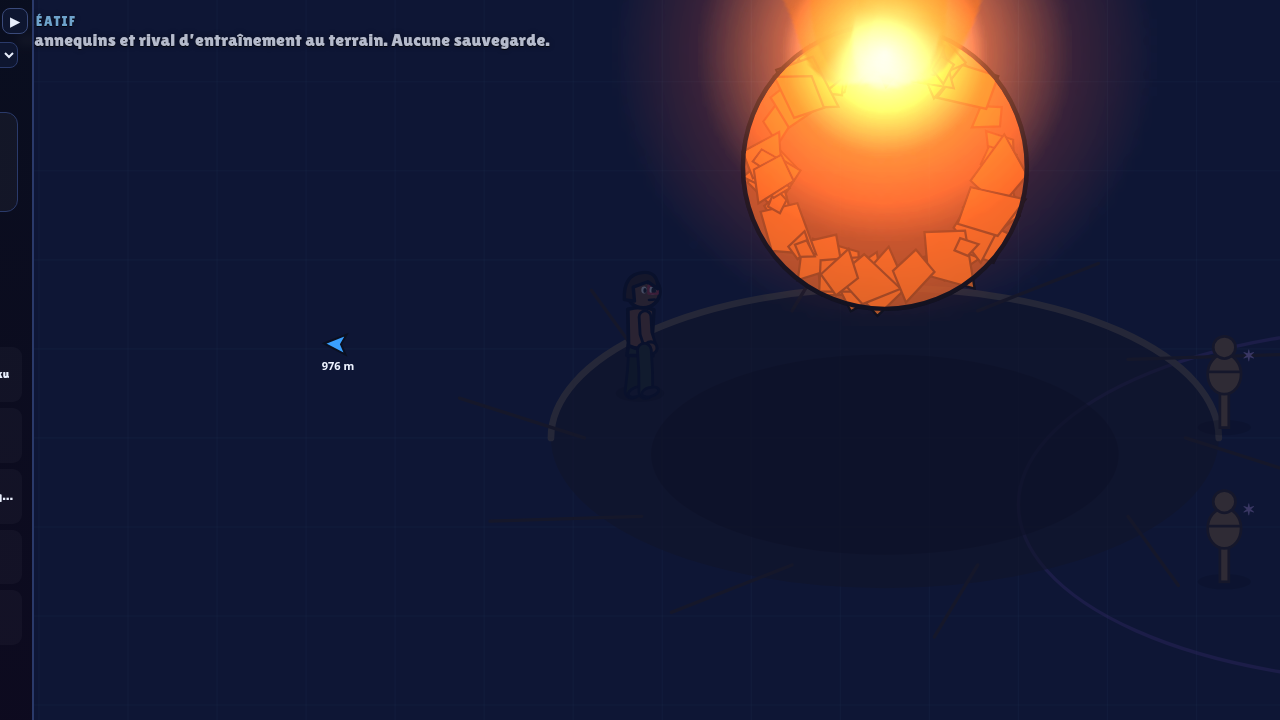
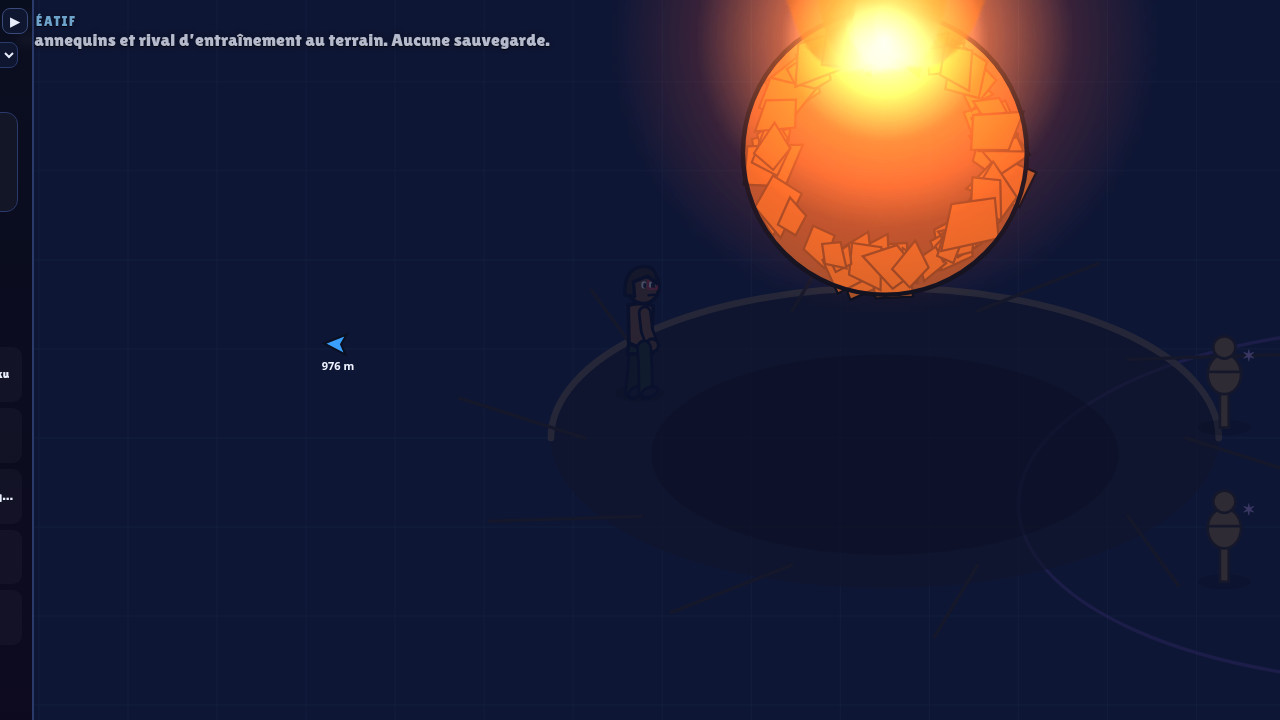
v0.9.6: data-driven core animations (M1 combo, dash, kawarimi, reactions, guard, run)

Changed region(s): [[0.5625, 0.0611, 0.8125, 0.4278], [0.6562, 0.0, 0.75, 0.0611], [0.5, 0.3972, 0.5312, 0.4278]]

diff --git a/index.html b/index.html
@@ -104,7 +104,7 @@ button.b.p{background:var(--gold);color:var(--ink)}button.b.p2{background:var(--
 <script>
 'use strict';
 /* ============ Noyau : réglages, sauvegarde, entrées, audio ============ */
-const VERSION = '0.9.5';
+const VERSION = '0.9.6';
 const $ = (s) => document.querySelector(s);
 const TAU = Math.PI * 2, clamp = (v, a, b) => (v < a ? a : v > b ? b : v), lerp = (a, b, t) => a + (b - a) * t;
 const rnd = (a, b) => a + Math.random() * (b - a), pick = (a) => a[(Math.random() * a.length) | 0];
@@ -3495,6 +3495,60 @@ addEventListener('touchstart',()=>document.body.classList.add('touch07'),{passiv
     g.restore(); g.globalAlpha = 1; g.globalCompositeOperation = 'source-over'; };
   // la caméra et l'impact du coup : petit hitstop + secousse adoucie
   const sw0 = MODE08.swing && MODE08.swing.bind(MODE08); if (sw0) MODE08.swing = function (u) { sw0(u); try { Cam.shake((Save.set && Save.set.rf === false) ? 0.3 : 0.15); } catch (e) {} };
+})();
+
+// v0.9.6 — Animations de base, décrites en données (ANIM10) pour les régler facilement : combo M1, dash, Kawarimi (bûche), réactions aux coups, garde, course de Naruto.
+// Ne touche ni aux dégâts ni aux timings de gameplay : seulement poses, VFX et hit-stop cosmétique (plafonné).
+(() => {
+  const TAU = Math.PI * 2, cl = (v) => Math.max(0, Math.min(1, v)), RF = () => !(window.Save && Save.set && Save.set.rf === false);
+  const ANIM10 = window.ANIM10 = {
+    m1: [ // une pose distincte par coup : anticipation → frappe (smear) → prolongement → retour
+      { ph: [0.24, 0.36, 0.7], follow: { aF: 1.9, eF: 0.1, lean: 0.55, sx: 1.08, sy: 0.94, hF: 0.8, kF: -0.2, hB: -0.7 }, stretch: 0.22, smear: [[-1.3, 1.1, 54], [-1.0, 1.3, 40]], sparks: { n: 6, sp: 380, spread: 0.5 }, hs: 0.04, shake: 0.06 },
+      { ph: [0.24, 0.36, 0.7], follow: { lean: -0.35, hF: 2.2, kF: 0.05, aF: 1.3, aB: -1.4, by: -10, sx: 1.06, sy: 0.95 }, stretch: 0.26, smear: [[1.4, -1.2, 60], [1.1, -1.5, 46]], sparks: { n: 8, sp: 420, spread: 0.6 }, hs: 0.045, shake: 0.08 },
+      { ph: [0.3, 0.4, 0.78], follow: { by: 6, aF: 0.9, aB: 0.8, lean: 0.95, sx: 1.2, sy: 0.82, hF: 1.1, kF: -1.4, hB: -1.1 }, stretch: 0.4, smear: [[-2.0, 2.0, 70], [-2.3, 1.7, 86], [-1.7, 2.3, 56]], sparks: { n: 16, sp: 620, spread: 0.9 }, hs: 0.09, shake: 0.22, fin: 1 } ],
+    dash: { ghostEvery: 0.035, ghostLife: 0.22, ghostA: 0.4, dustStart: 8, skid: { t: 0.2, pose: { lean: -0.45, sx: 1.15, sy: 0.86, by: 3, hF: 0.9, kF: -0.4, hB: -0.9, kB: -0.6, aF: 0.2, aB: -0.4 } }, dustSkid: 6 },
+    kawa: { poof: 14, logLife: 1.4, trailLife: 0.3, ring: 70 },
+    react: { stretch: 0.28, sparks: 4, sp: 300 },
+    guard: { aF: 2.2, eF: 2.4, aB: 2.0, eB: 2.4, lean: -0.1, sx: 0.94, sy: 1.04, hF: 0.4, kF: -0.6, hB: -0.4, kB: -0.6, by: 2, head: 0.15 },
+    run: { min: 230, pose: { aF: -1.4, eF: 0.2, aB: -1.25, eB: 0.2, lean: 0.55, head: 0.15 } },
+  };
+  const ease = (k) => 1 - (1 - k) * (1 - k);
+  // ── poses
+  const po = poseOf; poseOf = function (u) { const a = u.act, P = po(u);
+    if (a && a.k === 'm1' && !u.giant) { const D = ANIM10.m1[Math.min(2, a.n | 0)], q = cl(a.t / a.dur), K = M1K[Math.min(2, a.n | 0)], base = u.combat ? STANCE : P, A = { ...STANCE, ...K[0] }, S = { ...STANCE, ...K[1] }, F = { ...S, ...D.follow };
+      if (q < D.ph[0]) return mixP(STANCE, A, ease(q / D.ph[0]));
+      if (q < D.ph[1]) { const k = (q - D.ph[0]) / (D.ph[1] - D.ph[0]), o = mixP(A, S, k * k); o.sx *= 1 + D.stretch * Math.sin(k * Math.PI); o.sy *= 1 - D.stretch * 0.6 * Math.sin(k * Math.PI); return o; }
+      if (q < D.ph[2]) return mixP(S, F, ease((q - D.ph[1]) / (D.ph[2] - D.ph[1])));
+      return mixP(F, STANCE, ease((q - D.ph[2]) / (1 - D.ph[2]))); }
+    if (!a && u.skidAt != null && Game.t - u.skidAt < ANIM10.dash.skid.t) return mixP({ ...STANCE, ...ANIM10.dash.skid.pose }, P, (Game.t - u.skidAt) / ANIM10.dash.skid.t);
+    if (!a && u.guardT > 0) return { ...P, ...ANIM10.guard };
+    if (!a && !(u.hurtT > 0) && u.isHero && Math.hypot(u.vx || 0, u.vy || 0) > ANIM10.run.min) return { ...P, ...ANIM10.run.pose };
+    return P; };
+  // ── VFX helpers
+  const spark = (x, y, a, n, sp, spread, c) => { for (let i = 0; i < n; i++) { const an = a + (Math.random() - 0.5) * spread * 2, v = sp * (0.5 + Math.random() * 0.7); FX.add({ k: 'sp', spr: i % 3 ? 'ember' : 'star', c, x, y, vx: Math.cos(an) * v, vy: Math.sin(an) * v * 0.7, s: 3 + Math.random() * 4, life: 0.18 + Math.random() * 0.14, add: 1 }); } };
+  const ghost = (u, c, life, A) => { const P = poseOf(u), s = { ...u, P, sq: u.sq || 0 }; FX.custom({ x: u.x, y: u.y, life, draw: (g, p, q) => { g.save(); g.globalAlpha = A * (1 - q); try { drawRig(g, s, c); } catch (e) {} g.restore(); } }); };
+  // ── combo M1 et dash : on observe l'action
+  let hitN = 0; const ht0 = hurt; hurt = function (t, dmg, src, o) { const kawa = t && t.isHero && t.kawa > 0 && src && !src.isHero, ox = t && t.x, oy = t && t.y; const r = ht0(t, dmg, src, o);
+    if (kawa && t.kawa === 0) kawaFx(t, ox, oy);
+    else if (t && !t.isHero && src && (src.isHero || src.isClone || src.isAlly) && dmg > 0) { hitN++; const R = ANIM10.react; t.sq = Math.max(t.sq || 0, R.stretch); if (Game.t - (ANIM10._rs || 0) < 0.06) return r; ANIM10._rs = Game.t; const a = Math.atan2(t.y - src.y, t.x - src.x); spark(t.x, t.y - 40, a, R.sparks, R.sp, 0.5, '#fff1d0'); }
+    return r; };
+  const as0 = actStep; actStep = function (u, a, dt) { const wasHit = a.hit, n0 = hitN; as0(u, a, dt);
+    if (a.k === 'm1' && !wasHit && a.hit && !u.giant && u.isHero) { const D = ANIM10.m1[Math.min(2, a.n | 0)], col = elc(Game.mainEl || 'wind');
+      for (let i = 1; i < D.smear.length; i++) FX.smear(u, a.a + D.smear[i][0], a.a + D.smear[i][1], D.smear[i][2], i === 1 ? '#ffffff' : col, D.fin ? 1 : 0);
+      if (hitN > n0) { const x = u.x + Math.cos(a.a) * 46, y = u.y - 40 + Math.sin(a.a) * 24; spark(x, y, a.a, D.sparks.n, D.sparks.sp, D.sparks.spread, col); Game.hitstop(D.hs); Cam.shake(D.shake);
+        if (D.fin && window.VFX9) VFX9.play([{ fx: 'star', c: col, size: 30 }, { fx: 'shock', c: col, r: 120, w: 8 }, { fx: 'screen', k: 'flash', a: 0.18 }], x, y); } }
+    if (a.k === 'dash') { const D = ANIM10.dash; u.ghT = (u.ghT || 0) - dt; if (u.ghT <= 0 && u.isHero) { u.ghT = D.ghostEvery; ghost(u, u.isHero ? elc(Game.mainEl || 'wind') : '#ff9a8a', D.ghostLife, D.ghostA); }
+      if (a.t + dt >= a.dur && !a.skid) { a.skid = 1; u.skidAt = Game.t; FX.dust(u.x, u.y, D.dustSkid); } } };
+  const dg0 = dodge; dodge = function (u) { const r = dg0(u); try { FX.dust(u.x, u.y, ANIM10.dash.dustStart); u.ghT = 0; } catch (e) {} return r; };
+  // ── Kawarimi : nuage de fumée, bûche avec kunai et parchemin, réapparition dans le dos avec traînée
+  function kawaFx(t, ox, oy) { const K = ANIM10.kawa; FX.smoke(ox, oy - 20, K.poof); FX.smoke(t.x, t.y - 20, 5);
+    FX.custom({ x: ox, y: oy, life: K.logLife, draw: (g, p, q) => { const fall = Math.min(1, q * 5), a = 1 - Math.max(0, (q - 0.7) / 0.3); g.save(); g.translate(ox, oy - 10); g.rotate(-1.3 * (1 - fall)); g.globalAlpha = a;
+      g.fillStyle = '#7a5230'; g.fillRect(-14, -50, 28, 52); g.fillStyle = '#b8895a'; g.beginPath(); g.ellipse(0, -50, 14, 5, 0, 0, TAU); g.fill(); g.strokeStyle = '#8f6a44'; g.beginPath(); g.ellipse(0, -50, 7, 2.5, 0, 0, TAU); g.stroke();
+      g.strokeStyle = '#5a3a20'; g.lineWidth = 1.5; for (const yy of [-36, -20, -6]) { g.beginPath(); g.moveTo(-14, yy); g.lineTo(14, yy + 2); g.stroke(); }
+      g.fillStyle = '#c8ced8'; g.beginPath(); g.moveTo(-2, -30); g.lineTo(-26, -34); g.lineTo(-2, -26); g.fill(); g.fillStyle = '#333'; g.fillRect(-36, -33, 10, 3);
+      g.fillStyle = '#f1e2b0'; g.fillRect(-46, -40, 9, 18); g.fillStyle = '#c0392b'; g.fillRect(-44, -36, 5, 10); g.restore(); } });
+    const rf = RF(); FX.custom({ x: t.x, y: t.y, life: K.trailLife, draw: (g, p, q) => { g.save(); g.globalCompositeOperation = 'lighter'; g.globalAlpha = (rf ? 0.35 : 0.7) * (1 - q); g.strokeStyle = '#cfe0ff'; g.lineWidth = 10 * (1 - q); g.beginPath(); g.moveTo(ox, oy - 40); g.lineTo(t.x, t.y - 40); g.stroke(); g.lineWidth = 3; g.strokeStyle = '#fff'; g.stroke(); g.restore(); } });
+    FX.ring(t.x, t.y - 40, '#cfe0ff', 12, K.ring, 0.3); try { ghost(t, '#cfe0ff', 0.25, 0.5); } catch (e) {} }
 })();
 
 </script></body></html>

diff --git a/src/8v_anim10.js b/src/8v_anim10.js
@@ -1,0 +1,53 @@
+// v0.9.6 — Animations de base, décrites en données (ANIM10) pour les régler facilement : combo M1, dash, Kawarimi (bûche), réactions aux coups, garde, course de Naruto.
+// Ne touche ni aux dégâts ni aux timings de gameplay : seulement poses, VFX et hit-stop cosmétique (plafonné).
+(() => {
+  const TAU = Math.PI * 2, cl = (v) => Math.max(0, Math.min(1, v)), RF = () => !(window.Save && Save.set && Save.set.rf === false);
+  const ANIM10 = window.ANIM10 = {
+    m1: [ // une pose distincte par coup : anticipation → frappe (smear) → prolongement → retour
+      { ph: [0.24, 0.36, 0.7], follow: { aF: 1.9, eF: 0.1, lean: 0.55, sx: 1.08, sy: 0.94, hF: 0.8, kF: -0.2, hB: -0.7 }, stretch: 0.22, smear: [[-1.3, 1.1, 54], [-1.0, 1.3, 40]], sparks: { n: 6, sp: 380, spread: 0.5 }, hs: 0.04, shake: 0.06 },
+      { ph: [0.24, 0.36, 0.7], follow: { lean: -0.35, hF: 2.2, kF: 0.05, aF: 1.3, aB: -1.4, by: -10, sx: 1.06, sy: 0.95 }, stretch: 0.26, smear: [[1.4, -1.2, 60], [1.1, -1.5, 46]], sparks: { n: 8, sp: 420, spread: 0.6 }, hs: 0.045, shake: 0.08 },
+      { ph: [0.3, 0.4, 0.78], follow: { by: 6, aF: 0.9, aB: 0.8, lean: 0.95, sx: 1.2, sy: 0.82, hF: 1.1, kF: -1.4, hB: -1.1 }, stretch: 0.4, smear: [[-2.0, 2.0, 70], [-2.3, 1.7, 86], [-1.7, 2.3, 56]], sparks: { n: 16, sp: 620, spread: 0.9 }, hs: 0.09, shake: 0.22, fin: 1 } ],
+    dash: { ghostEvery: 0.035, ghostLife: 0.22, ghostA: 0.4, dustStart: 8, skid: { t: 0.2, pose: { lean: -0.45, sx: 1.15, sy: 0.86, by: 3, hF: 0.9, kF: -0.4, hB: -0.9, kB: -0.6, aF: 0.2, aB: -0.4 } }, dustSkid: 6 },
+    kawa: { poof: 14, logLife: 1.4, trailLife: 0.3, ring: 70 },
+    react: { stretch: 0.28, sparks: 4, sp: 300 },
+    guard: { aF: 2.2, eF: 2.4, aB: 2.0, eB: 2.4, lean: -0.1, sx: 0.94, sy: 1.04, hF: 0.4, kF: -0.6, hB: -0.4, kB: -0.6, by: 2, head: 0.15 },
+    run: { min: 230, pose: { aF: -1.4, eF: 0.2, aB: -1.25, eB: 0.2, lean: 0.55, head: 0.15 } },
+  };
+  const ease = (k) => 1 - (1 - k) * (1 - k);
+  // ── poses
+  const po = poseOf; poseOf = function (u) { const a = u.act, P = po(u);
+    if (a && a.k === 'm1' && !u.giant) { const D = ANIM10.m1[Math.min(2, a.n | 0)], q = cl(a.t / a.dur), K = M1K[Math.min(2, a.n | 0)], base = u.combat ? STANCE : P, A = { ...STANCE, ...K[0] }, S = { ...STANCE, ...K[1] }, F = { ...S, ...D.follow };
+      if (q < D.ph[0]) return mixP(STANCE, A, ease(q / D.ph[0]));
+      if (q < D.ph[1]) { const k = (q - D.ph[0]) / (D.ph[1] - D.ph[0]), o = mixP(A, S, k * k); o.sx *= 1 + D.stretch * Math.sin(k * Math.PI); o.sy *= 1 - D.stretch * 0.6 * Math.sin(k * Math.PI); return o; }
+      if (q < D.ph[2]) return mixP(S, F, ease((q - D.ph[1]) / (D.ph[2] - D.ph[1])));
+      return mixP(F, STANCE, ease((q - D.ph[2]) / (1 - D.ph[2]))); }
+    if (!a && u.skidAt != null && Game.t - u.skidAt < ANIM10.dash.skid.t) return mixP({ ...STANCE, ...ANIM10.dash.skid.pose }, P, (Game.t - u.skidAt) / ANIM10.dash.skid.t);
+    if (!a && u.guardT > 0) return { ...P, ...ANIM10.guard };
+    if (!a && !(u.hurtT > 0) && u.isHero && Math.hypot(u.vx || 0, u.vy || 0) > ANIM10.run.min) return { ...P, ...ANIM10.run.pose };
+    return P; };
+  // ── VFX helpers
+  const spark = (x, y, a, n, sp, spread, c) => { for (let i = 0; i < n; i++) { const an = a + (Math.random() - 0.5) * spread * 2, v = sp * (0.5 + Math.random() * 0.7); FX.add({ k: 'sp', spr: i % 3 ? 'ember' : 'star', c, x, y, vx: Math.cos(an) * v, vy: Math.sin(an) * v * 0.7, s: 3 + Math.random() * 4, life: 0.18 + Math.random() * 0.14, add: 1 }); } };
+  const ghost = (u, c, life, A) => { const P = poseOf(u), s = { ...u, P, sq: u.sq || 0 }; FX.custom({ x: u.x, y: u.y, life, draw: (g, p, q) => { g.save(); g.globalAlpha = A * (1 - q); try { drawRig(g, s, c); } catch (e) {} g.restore(); } }); };
+  // ── combo M1 et dash : on observe l'action
+  let hitN = 0; const ht0 = hurt; hurt = function (t, dmg, src, o) { const kawa = t && t.isHero && t.kawa > 0 && src && !src.isHero, ox = t && t.x, oy = t && t.y; const r = ht0(t, dmg, src, o);
+    if (kawa && t.kawa === 0) kawaFx(t, ox, oy);
+    else if (t && !t.isHero && src && (src.isHero || src.isClone || src.isAlly) && dmg > 0) { hitN++; const R = ANIM10.react; t.sq = Math.max(t.sq || 0, R.stretch); if (Game.t - (ANIM10._rs || 0) < 0.06) return r; ANIM10._rs = Game.t; const a = Math.atan2(t.y - src.y, t.x - src.x); spark(t.x, t.y - 40, a, R.sparks, R.sp, 0.5, '#fff1d0'); }
+    return r; };
+  const as0 = actStep; actStep = function (u, a, dt) { const wasHit = a.hit, n0 = hitN; as0(u, a, dt);
+    if (a.k === 'm1' && !wasHit && a.hit && !u.giant && u.isHero) { const D = ANIM10.m1[Math.min(2, a.n | 0)], col = elc(Game.mainEl || 'wind');
+      for (let i = 1; i < D.smear.length; i++) FX.smear(u, a.a + D.smear[i][0], a.a + D.smear[i][1], D.smear[i][2], i === 1 ? '#ffffff' : col, D.fin ? 1 : 0);
+      if (hitN > n0) { const x = u.x + Math.cos(a.a) * 46, y = u.y - 40 + Math.sin(a.a) * 24; spark(x, y, a.a, D.sparks.n, D.sparks.sp, D.sparks.spread, col); Game.hitstop(D.hs); Cam.shake(D.shake);
+        if (D.fin && window.VFX9) VFX9.play([{ fx: 'star', c: col, size: 30 }, { fx: 'shock', c: col, r: 120, w: 8 }, { fx: 'screen', k: 'flash', a: 0.18 }], x, y); } }
+    if (a.k === 'dash') { const D = ANIM10.dash; u.ghT = (u.ghT || 0) - dt; if (u.ghT <= 0 && u.isHero) { u.ghT = D.ghostEvery; ghost(u, u.isHero ? elc(Game.mainEl || 'wind') : '#ff9a8a', D.ghostLife, D.ghostA); }
+      if (a.t + dt >= a.dur && !a.skid) { a.skid = 1; u.skidAt = Game.t; FX.dust(u.x, u.y, D.dustSkid); } } };
+  const dg0 = dodge; dodge = function (u) { const r = dg0(u); try { FX.dust(u.x, u.y, ANIM10.dash.dustStart); u.ghT = 0; } catch (e) {} return r; };
+  // ── Kawarimi : nuage de fumée, bûche avec kunai et parchemin, réapparition dans le dos avec traînée
+  function kawaFx(t, ox, oy) { const K = ANIM10.kawa; FX.smoke(ox, oy - 20, K.poof); FX.smoke(t.x, t.y - 20, 5);
+    FX.custom({ x: ox, y: oy, life: K.logLife, draw: (g, p, q) => { const fall = Math.min(1, q * 5), a = 1 - Math.max(0, (q - 0.7) / 0.3); g.save(); g.translate(ox, oy - 10); g.rotate(-1.3 * (1 - fall)); g.globalAlpha = a;
+      g.fillStyle = '#7a5230'; g.fillRect(-14, -50, 28, 52); g.fillStyle = '#b8895a'; g.beginPath(); g.ellipse(0, -50, 14, 5, 0, 0, TAU); g.fill(); g.strokeStyle = '#8f6a44'; g.beginPath(); g.ellipse(0, -50, 7, 2.5, 0, 0, TAU); g.stroke();
+      g.strokeStyle = '#5a3a20'; g.lineWidth = 1.5; for (const yy of [-36, -20, -6]) { g.beginPath(); g.moveTo(-14, yy); g.lineTo(14, yy + 2); g.stroke(); }
+      g.fillStyle = '#c8ced8'; g.beginPath(); g.moveTo(-2, -30); g.lineTo(-26, -34); g.lineTo(-2, -26); g.fill(); g.fillStyle = '#333'; g.fillRect(-36, -33, 10, 3);
+      g.fillStyle = '#f1e2b0'; g.fillRect(-46, -40, 9, 18); g.fillStyle = '#c0392b'; g.fillRect(-44, -36, 5, 10); g.restore(); } });
+    const rf = RF(); FX.custom({ x: t.x, y: t.y, life: K.trailLife, draw: (g, p, q) => { g.save(); g.globalCompositeOperation = 'lighter'; g.globalAlpha = (rf ? 0.35 : 0.7) * (1 - q); g.strokeStyle = '#cfe0ff'; g.lineWidth = 10 * (1 - q); g.beginPath(); g.moveTo(ox, oy - 40); g.lineTo(t.x, t.y - 40); g.stroke(); g.lineWidth = 3; g.strokeStyle = '#fff'; g.stroke(); g.restore(); } });
+    FX.ring(t.x, t.y - 40, '#cfe0ff', 12, K.ring, 0.3); try { ghost(t, '#cfe0ff', 0.25, 0.5); } catch (e) {} }
+})();

diff --git a/src/10_core.js b/src/10_core.js
@@ -1,6 +1,6 @@
 'use strict';
 /* ============ Noyau : réglages, sauvegarde, entrées, audio ============ */
-const VERSION = '0.9.5';
+const VERSION = '0.9.6';
 const $ = (s) => document.querySelector(s);
 const TAU = Math.PI * 2, clamp = (v, a, b) => (v < a ? a : v > b ? b : v), lerp = (a, b, t) => a + (b - a) * t;
 const rnd = (a, b) => a + Math.random() * (b - a), pick = (a) => a[(Math.random() * a.length) | 0];

diff --git a/RESEARCH.md b/RESEARCH.md
@@ -23,3 +23,9 @@ Sources : Narutopedia (naruto.fandom.com/wiki/Susanoo), naruto-wiki.com/wiki/sus
 - L'utilisateur flotte au centre de la cage, dans un noyau de chakra.
 - Montée en puissance dans l'ordre flamme → os → chair → armure : d'abord des braises qui convergent, puis une teinte qui change selon la phase, puis un petit rebond à la fin.
 - Attaques avec squash/stretch façon ZZZ : on se ramasse avant le coup, on s'étire pendant, puis le rebond. La réduction des flashs reste respectée.
+
+# Animations de base — références (v0.9.6)
+- **Naruto Storm (CyberConnect2)** : combo de corps à corps en 3 à 5 coups, chacun avec une pose propre (jab, coup de pied tournant, finisseur qui projette). Le Kawarimi laisse un nuage de fumée et une bûche, puis le personnage réapparaît dans le dos de l'ennemi. Course de Naruto avec les bras en arrière et le corps penché.
+- **Demon Slayer : Hinokami Chronicles** : smear frames et traînées sur chaque frappe, hit-stop court sur les coups légers et long sur le finisseur, étincelles orientées dans le sens du coup.
+- **Zenless Zone Zero** : anticipation marquée (compression), étirement pendant la frappe, prolongement puis rebond. Dash avec des images rémanentes, de la poussière au départ et une glissade de récupération. L'impact est lisible sans flash plein écran.
+- **Principes retenus** : anticipation → frappe (smear et étirement) → prolongement → retour. Hit-stop d'environ 40 ms sur les coups normaux et 90 ms sur le finisseur. Les étincelles partent dans le sens du coup. Tout est réglable dans la table `ANIM10` (`src/8v_anim10.js`).

diff --git a/PATCH_NOTES.md b/PATCH_NOTES.md
@@ -1,3 +1,10 @@
+# v0.9.6 — Animations de base
+- **Combo M1** : 3 poses distinctes (anticipation → frappe avec smear et étirement → prolongement → retour), hit-stop et étincelles orientées. Le finisseur a sa propre pose, un double smear et une onde de choc.
+- **Dash** : images rémanentes, poussière au départ, penché, glissade de récupération.
+- **Kawarimi** : nuage de fumée, bûche avec kunai et parchemin, réapparition dans le dos avec une traînée de lumière.
+- **Autres mouvements** : réaction aux coups étirée avec étincelles, pose de garde bras croisés, course de Naruto.
+- Tout est réglable dans `ANIM10`. L'équilibrage est inchangé.
+
 # v0.9.5 — Susanoo fidèle à l'anime
 - Couleur et armes selon l'utilisateur : Itachi en rouge (Totsuka, Yata), Sasuke en violet (arc et flèche), Madara en bleu (ailes et deux lames), Shisui en vert (lance et aiguilles), Kakashi en cyan (lame et shuriken Kamui).
 - Halo translucide en couches et bord de flammes qui vacille.
